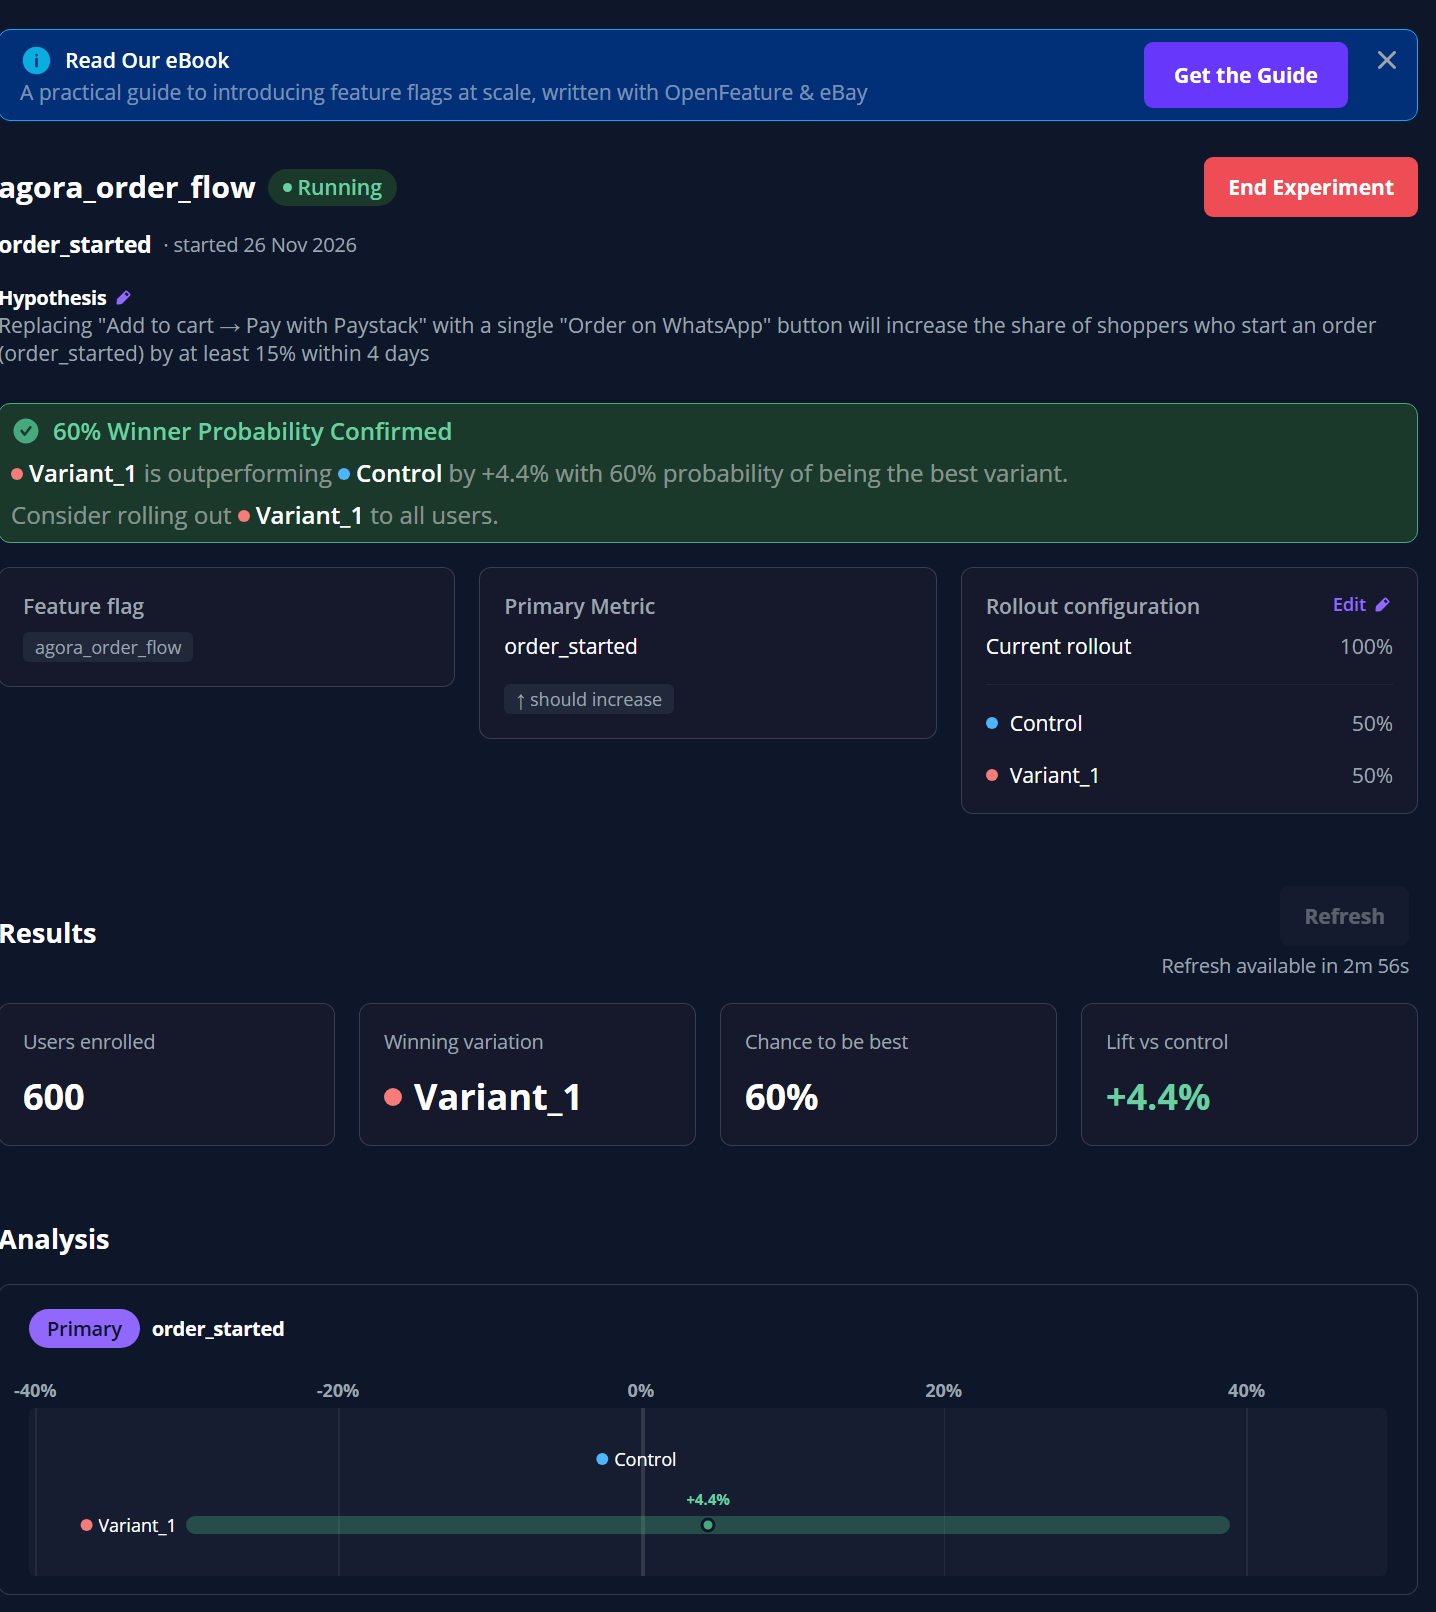
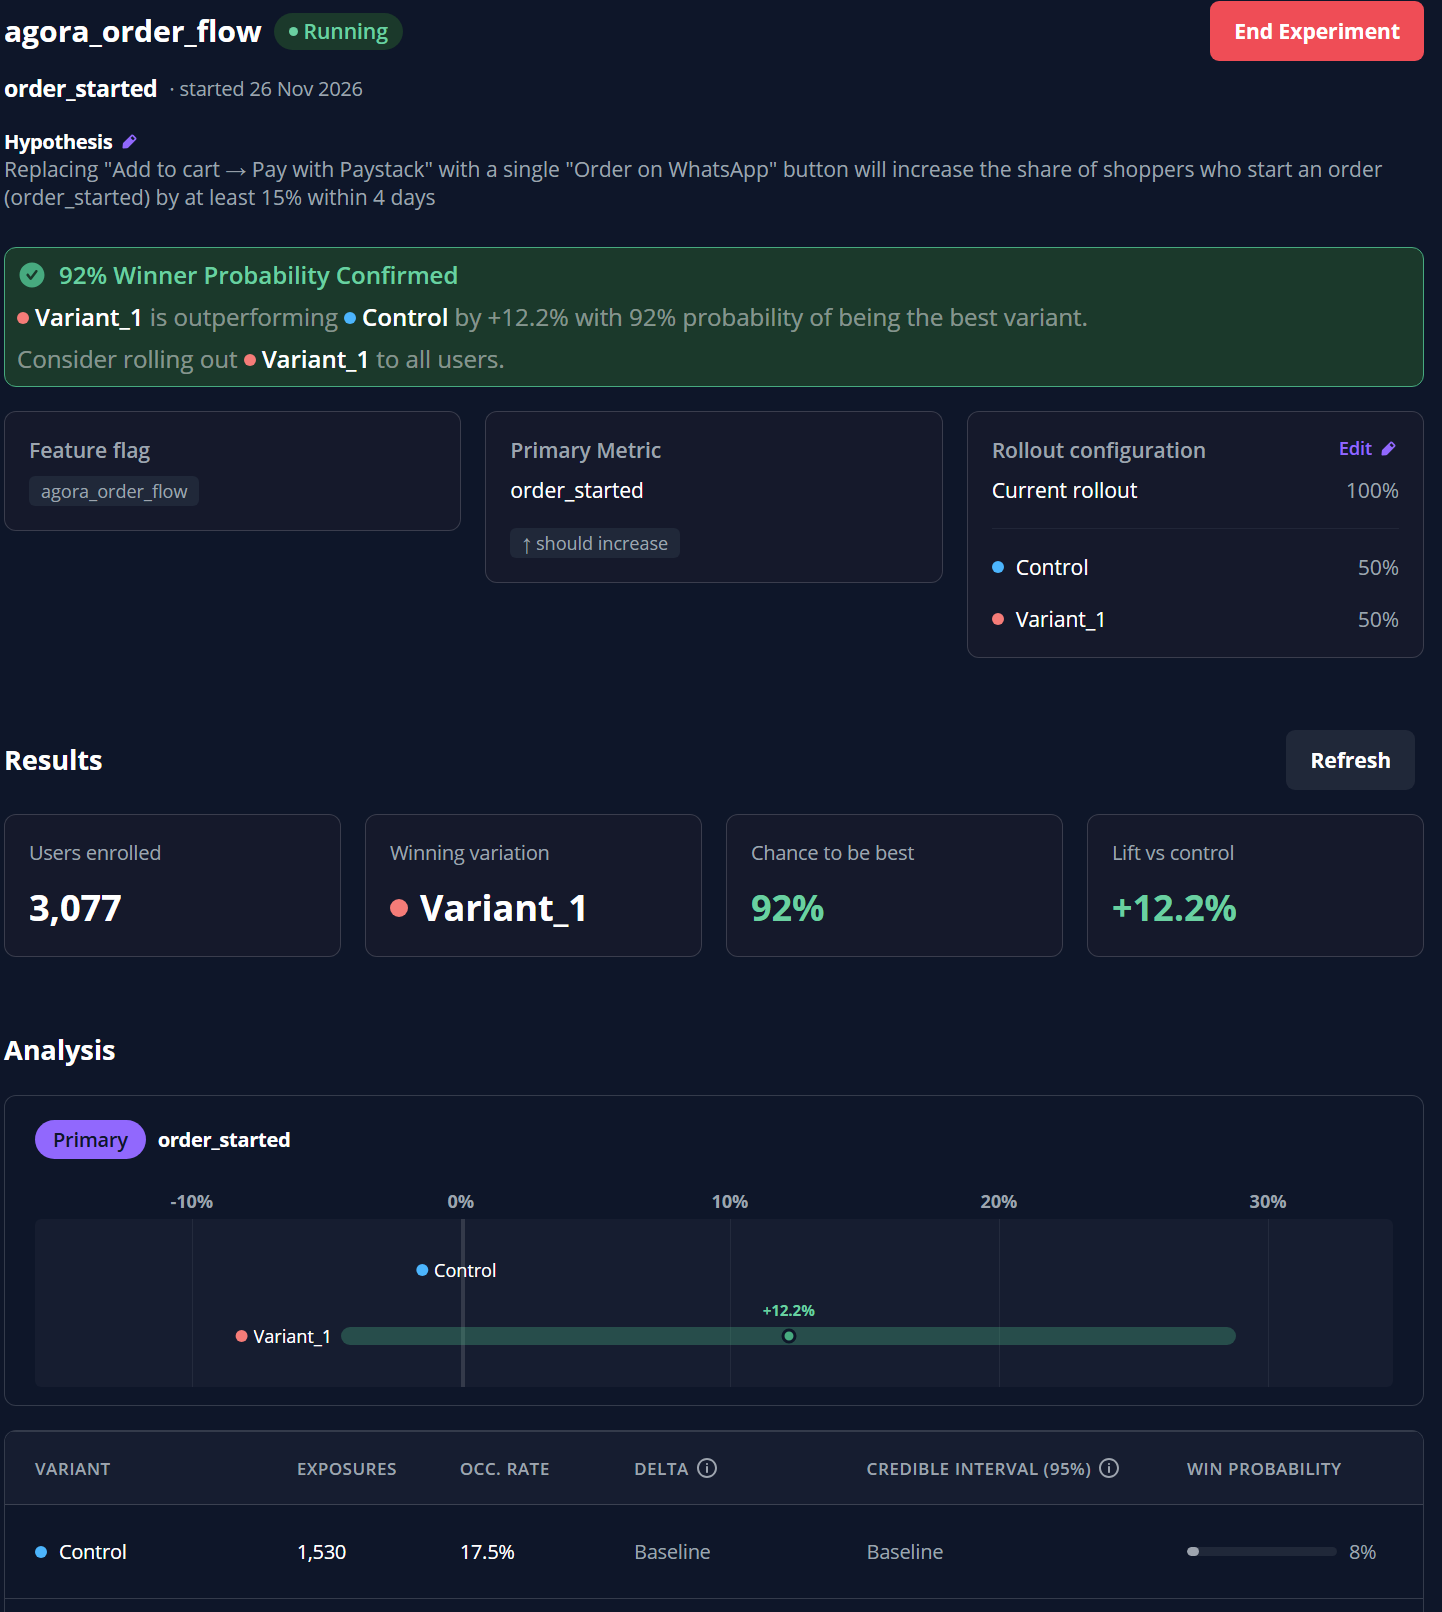
README: final simulated result, rollout decision and live rollout check

diff --git a/README.md b/README.md
@@ -72,33 +72,49 @@ Two experiments run on the same flag, one per Flagsmith environment, so simulate
 ### Development: simulated shoppers (the main result)
 
 The hackathon allows simulated traffic for Track 01, so this is the result the entry is judged on. The traffic lab
-sent 600 simulated shoppers through the experiment with these assumptions, set on the lab page:
+sent 3,077 simulated shoppers through the experiment with these assumptions, set on the lab page:
 
 - Bag flow: 35% add to bag, and 50% of those go on to checkout, so about 17.5% start an order
 - WhatsApp flow: 20% tap Order on WhatsApp
 
 | Flagsmith reported (26 Nov 2026) | |
 |---|---|
-| Users enrolled | 600 |
+| Users enrolled | 3,077 |
+| Control (bag flow) | 1,530 exposures, 17.5% started an order |
 | Leading variation | `Variant_1` (Order on WhatsApp) |
-| Lift vs control | +4.4% |
-| Chance to be best | 60% |
+| Lift vs control | +12.2% |
+| Chance to be best | 92% (control: 8%) |
 
 ![Flagsmith results, Development](docs/flagsmith-development-results.png)
 
-**How to read it.** The WhatsApp button is ahead, but a 60% chance to be best is only a little better than a coin
-flip, and the interval in the chart runs from roughly -30% to +39%. The lab was set so that WhatsApp really is about
-14% better in relative terms, and 600 shoppers was not enough for Flagsmith to see that clearly. A gap of 17.5% vs
-20% needs roughly 3,800 shoppers per variation to detect reliably (80% power, 5% significance).
+**How to read it.** The WhatsApp button is ahead by 12.2%, with a 92% chance of being the better version. That is a
+strong lead, not a certainty: the 95% credible interval in the chart still starts a little below zero. The lab was
+set so that WhatsApp really is about 14% better in relative terms, and Flagsmith's estimate landed close to that.
+A gap of 17.5% vs 20% needs roughly 3,800 shoppers per variation to detect reliably (80% power, 5% significance);
+this run stopped at about 1,540 per variation.
 
-**Decision.** Do not roll out yet. Keep the 50 / 50 split and keep collecting. The simulation measures the
-assumptions typed into the lab, so it shows the experiment working end to end and how much traffic a real answer
-needs. It does not show what real shoppers prefer.
+The simulation measures the assumptions typed into the lab. It shows the experiment working end to end. It does not
+show what real shoppers prefer.
+
+### Decision: ship the winner with the same flag
+
+The experiment was ended in Development at 92%, and `Variant_1` was rolled out to everyone in that environment
+from the Flagsmith dashboard. No code change and no redeploy: the shop reads the same flag, so every shopper in that
+environment now gets the WhatsApp flow. Ending at 92% instead of waiting for 95% is a judgement call that a feature
+flag makes cheap, because the same flag switches it back.
+
+![Experiment completed and Variant_1 rolled out, Development](docs/flagsmith-development-rollout.png)
+
+**Checked on the live site.** The traffic lab has a rollout check that asks Flagsmith what 20 brand-new shoppers
+would get, without sending events. After the rollout it reported: "20 of 20 got whatsapp, 0 got control. 0 of 20
+are in a running experiment." You can run it yourself at the bottom of the
+[traffic lab](https://agora-market-sage.vercel.app/lab).
 
 ### Production: real shoppers (small test)
 
 The live shop was opened in a few browsers to check the real path. Flagsmith enrolled 3 shoppers and both order
 flows were served. That is far too few for a result, and Flagsmith shows the experiment as still collecting data.
+Production keeps its 50 / 50 split: the rollout above was made in Development only.
 
 ![Flagsmith experiment running, Production](docs/flagsmith-production-running.png)
 
